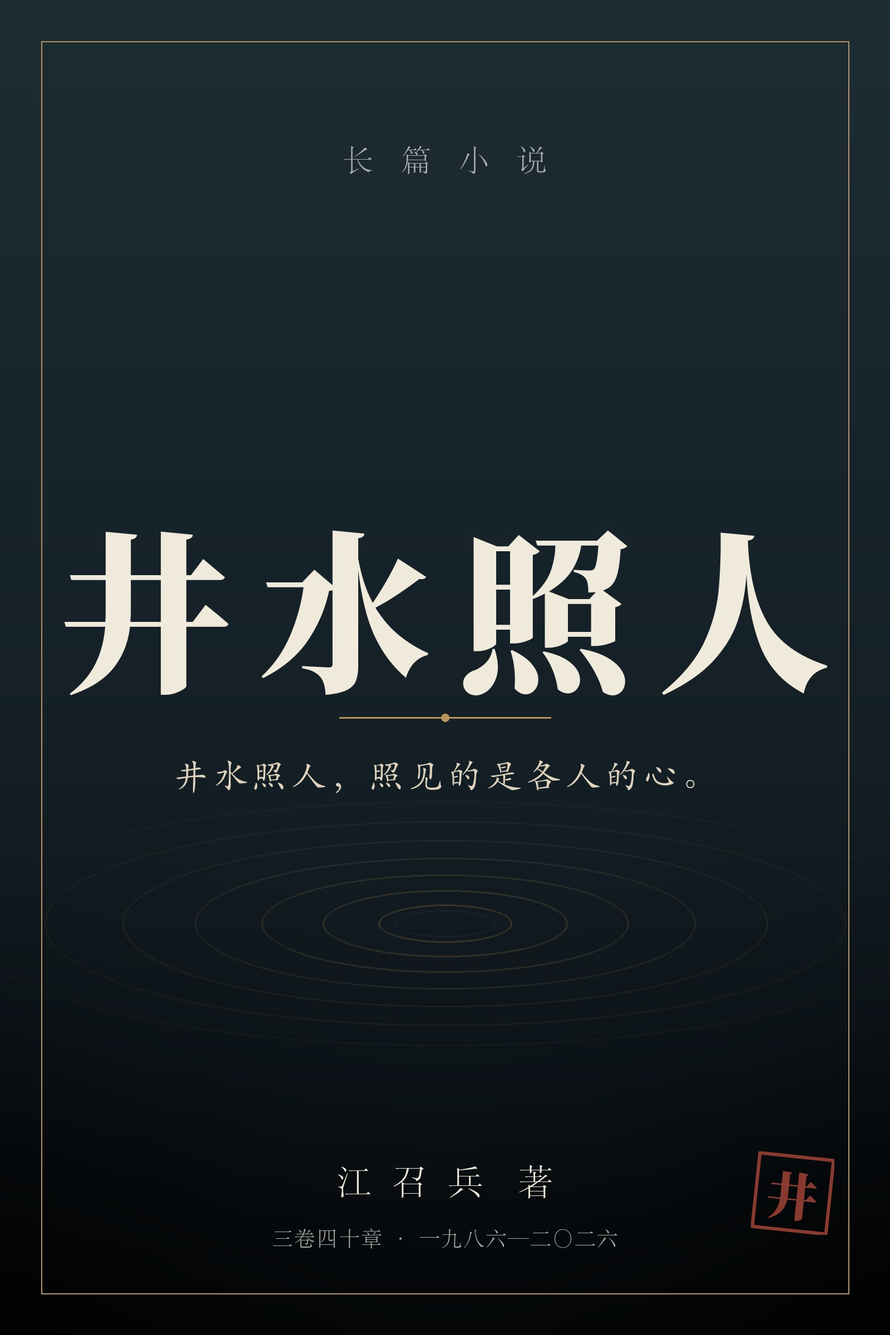
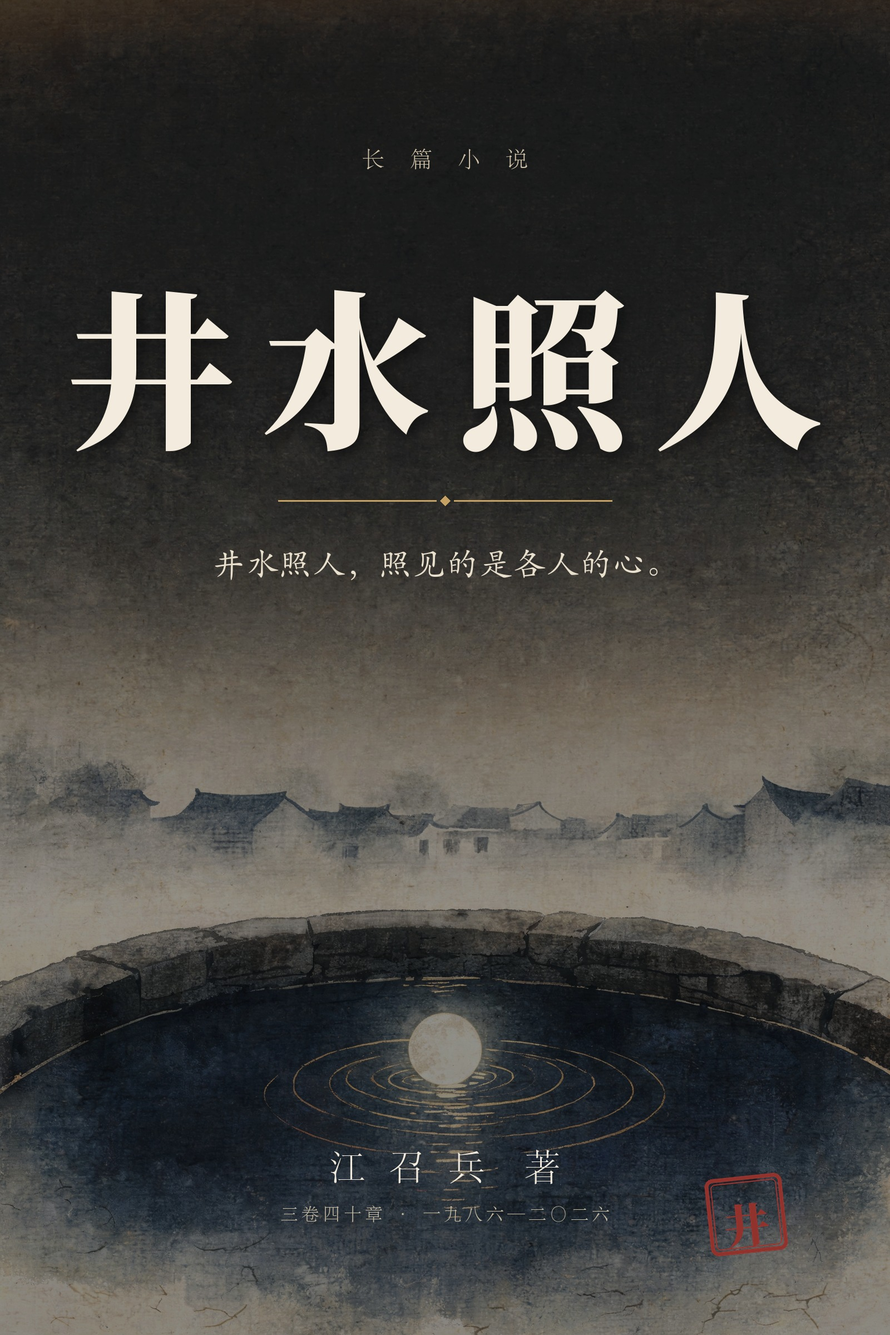
Cover: regenerate Jingshui Zhaoren cover from Dreamina art + PIL typography

diff --git a/books/jingshui-zhaoren/read.html b/books/jingshui-zhaoren/read.html
@@ -17,7 +17,7 @@
 <meta property="og:url" content="https://ZhaobingJiang.github.io/books/jingshui-zhaoren/read.html">
 <meta property="og:title" content="井水照人 · 全文在线阅读">
 <meta property="og:description" content="1986—2026，从江淮省陵水县到云州。三卷四十章，约二十五万字，全文在线阅读。">
-<meta property="og:image" content="https://ZhaobingJiang.github.io/books/jingshui-zhaoren/cover.jpg?v=1">
+<meta property="og:image" content="https://ZhaobingJiang.github.io/books/jingshui-zhaoren/cover.jpg?v=2">
 <meta name="twitter:card" content="summary_large_image">
 <script type="application/ld+json">
 {"@context":"https://schema.org","@type":"Book","name":"井水照人","alternateName":"Well Water Mirrors","url":"https://ZhaobingJiang.github.io/books/jingshui-zhaoren/","inLanguage":"zh-CN","bookFormat":"https://schema.org/EBook","author":{"@type":"Person","name":"江召兵","url":"https://ZhaobingJiang.github.io/"},"numberOfPages":40,"bookEdition":"网页版","isAccessibleForFree":true,"creativeWorkStatus":"全书完成"}
@@ -67,7 +67,7 @@
 
 <main class="reader">
   <div class="book-head">
-    <img class="web-cover" src="cover.jpg?v=1" alt="《井水照人》封面：江召兵著，长篇小说" width="1600" height="2400">
+    <img class="web-cover" src="cover.jpg?v=2" alt="《井水照人》封面：江召兵著，长篇小说" width="1600" height="2400">
     <h1 class="t">井水照人</h1>
     <div class="s">井水照人，照见的是各人的心。</div>
     <div class="a">江召兵　著</div>

diff --git a/books/jingshui-zhaoren/index.html b/books/jingshui-zhaoren/index.html
@@ -17,7 +17,7 @@
 <meta property="og:url" content="https://ZhaobingJiang.github.io/books/jingshui-zhaoren/">
 <meta property="og:title" content="井水照人 · 长篇小说">
 <meta property="og:description" content="1986—2026，从江淮省陵水县到云州。三卷四十章，约二十五万字，全书完成。">
-<meta property="og:image" content="https://ZhaobingJiang.github.io/books/jingshui-zhaoren/cover.jpg?v=1">
+<meta property="og:image" content="https://ZhaobingJiang.github.io/books/jingshui-zhaoren/cover.jpg?v=2">
 <meta name="twitter:card" content="summary_large_image">
 <script type="application/ld+json">
 {"@context":"https://schema.org","@graph":[
@@ -68,7 +68,7 @@
 
 <main class="landing">
   <section class="book-hero">
-    <img class="cover" src="cover.jpg?v=1" alt="《井水照人》封面：江召兵著，长篇小说，题记“井水照人，照见的是各人的心”" width="1600" height="2400">
+    <img class="cover" src="cover.jpg?v=2" alt="《井水照人》封面：江召兵著，长篇小说，题记“井水照人，照见的是各人的心”" width="1600" height="2400">
     <div>
       <h1>井水照人</h1>
       <p class="sub">井水照人，照见的是各人的心。</p>

diff --git a/books/index.html b/books/index.html
@@ -687,7 +687,7 @@
 
         <article class="book-card" id="book-19">
           <figure class="book-figure">
-            <img src="./jingshui-zhaoren/cover-card.jpg?v=1" alt="Cover of Well Water Mirrors (Jingshui Zhaoren)" width="640" height="960">
+            <img src="./jingshui-zhaoren/cover-card.jpg?v=2" alt="Cover of Well Water Mirrors (Jingshui Zhaoren)" width="640" height="960">
             <figcaption>Complete &middot; Prologue and three volumes, forty chapters</figcaption>
           </figure>
           <div class="book-body">

diff --git a/zh/books.html b/zh/books.html
@@ -687,7 +687,7 @@
 
         <article class="book-card" id="book-19">
           <figure class="book-figure">
-            <img src="../books/jingshui-zhaoren/cover-card.jpg?v=1" alt="《井水照人》封面" width="640" height="960">
+            <img src="../books/jingshui-zhaoren/cover-card.jpg?v=2" alt="《井水照人》封面" width="640" height="960">
             <figcaption>全书完成 · 楔子 + 三卷四十章</figcaption>
           </figure>
           <div class="book-body">

diff --git a/scripts/compose_jingshui_cover_dreamina.py b/scripts/compose_jingshui_cover_dreamina.py
@@ -1,0 +1,177 @@
+# -*- coding: utf-8 -*-
+"""Compose the cover art for 井水照人 from a Dreamina-generated background.
+
+Input: _tmp_cover_art/art2.png (3328x4992 ink-wash well and moon)
+Outputs (books/jingshui-zhaoren/):
+  cover.jpg         1600x2400
+  cover-card.jpg     640x960
+  cover_preview.png  800x1200
+"""
+from pathlib import Path
+from PIL import Image, ImageDraw, ImageFont, ImageFilter, ImageEnhance
+
+ROOT = Path(__file__).resolve().parents[1]
+ART = ROOT / "_tmp_cover_art" / "art2.png"
+OUT = ROOT / "books" / "jingshui-zhaoren"
+OUT.mkdir(parents=True, exist_ok=True)
+
+W, H = 1600, 2400
+
+FONT_TITLE = r"C:\Windows\Fonts\Source Han Serif SC Heavy (TrueType).ttf"
+FONT_SERIF = r"C:\Windows\Fonts\STSONG.TTF"
+FONT_KAI = r"C:\Windows\Fonts\STKAITI.TTF"
+
+IVORY = (243, 236, 221)
+GOLD = (196, 160, 96)
+MUTED = (198, 186, 162)
+SEAL_RED = (143, 45, 39)
+
+
+def fit(img: Image.Image, w: int, h: int) -> Image.Image:
+    iw, ih = img.size
+    scale = max(w / iw, h / ih)
+    nw, nh = int(iw * scale + 0.5), int(ih * scale + 0.5)
+    img = img.resize((nw, nh), Image.LANCZOS)
+    left = (nw - w) // 2
+    top = (nh - h) // 2
+    return img.crop((left, top, left + w, top + h))
+
+
+def vgrad(size, stops):
+    """Vertical gradient image from list of (t, rgba)."""
+    w, h = size
+    img = Image.new("RGBA", (w, h))
+    px = img.load()
+    stops = sorted(stops)
+    for y in range(h):
+        t = y / (h - 1)
+        # find segment
+        for i in range(len(stops) - 1):
+            t0, c0 = stops[i]
+            t1, c1 = stops[i + 1]
+            if t0 <= t <= t1:
+                k = 0 if t1 == t0 else (t - t0) / (t1 - t0)
+                col = tuple(int(c0[j] + (c1[j] - c0[j]) * k) for j in range(4))
+                break
+        else:
+            col = stops[-1][1]
+        for x in range(w):
+            px[x, y] = col
+    return img
+
+
+def draw_tracked(draw: ImageDraw.ImageDraw, xy, text, font, fill, tracking=0):
+    x, y = xy
+    for ch in text:
+        draw.text((x, y), ch, font=font, fill=fill)
+        x += draw.textlength(ch, font=font) + tracking
+    return x
+
+
+def tracked_width(draw, text, font, tracking):
+    return sum(draw.textlength(ch, font=font) for ch in text) + tracking * (len(text) - 1)
+
+
+def build():
+    art = Image.open(ART).convert("RGB")
+    base = fit(art, W, H).convert("RGBA")
+
+    # 1. deepen the sky at the top so ivory typography stays legible
+    shade = vgrad((W, H), [
+        (0.00, (14, 17, 20, 150)),
+        (0.28, (18, 21, 24, 108)),
+        (0.52, (20, 24, 27, 44)),
+        (0.68, (12, 15, 18, 10)),
+        (1.00, (8, 10, 12, 26)),
+    ])
+    base = Image.alpha_composite(base, shade)
+
+    # 2. soft vignette
+    vign = Image.new("L", (W, H), 0)
+    vd = ImageDraw.Draw(vign)
+    vd.ellipse((-int(W * 0.55), -int(H * 0.30), int(W * 1.55), int(H * 1.30)), fill=120)
+    vign = vign.filter(ImageFilter.GaussianBlur(180))
+    dark = Image.new("RGBA", (W, H), (6, 8, 10, 255))
+    dark.putalpha(ImageEnhance.Brightness(vign).enhance(0.9))
+    base = Image.alpha_composite(base, dark)
+
+    draw = ImageDraw.Draw(base)
+
+    # 3. top label
+    f_label = ImageFont.truetype(FONT_SERIF, 40)
+    lab = "长 篇 小 说"
+    lw = tracked_width(draw, lab, f_label, 18)
+    draw_tracked(draw, ((W - lw) / 2, 258), lab, f_label, (208, 194, 168), 18)
+
+    # 4. main title
+    f_title = ImageFont.truetype(FONT_TITLE, 306)
+    title = "井水照人"
+    tw = tracked_width(draw, title, f_title, 46)
+    tx = (W - tw) / 2
+    ty = 430
+    # soft shadow first
+    shadow = Image.new("RGBA", (W, H), (0, 0, 0, 0))
+    sd = ImageDraw.Draw(shadow)
+    draw_tracked(sd, (tx + 6, ty + 10), title, f_title, (0, 0, 0, 170), 46)
+    shadow = shadow.filter(ImageFilter.GaussianBlur(14))
+    base = Image.alpha_composite(base, shadow)
+    draw = ImageDraw.Draw(base)
+    draw_tracked(draw, (tx, ty), title, f_title, IVORY, 46)
+
+    # 5. gold rule with a small diamond
+    ry = 900
+    half = 300
+    draw.line([(W / 2 - half, ry), (W / 2 - 16, ry)], fill=GOLD, width=3)
+    draw.line([(W / 2 + 16, ry), (W / 2 + half, ry)], fill=GOLD, width=3)
+    d = 9
+    draw.polygon([(W / 2, ry - d), (W / 2 + d, ry), (W / 2, ry + d), (W / 2 - d, ry)], fill=GOLD)
+
+    # 6. tagline
+    f_tag = ImageFont.truetype(FONT_KAI, 60)
+    tag = "井水照人，照见的是各人的心。"
+    tagw = draw.textlength(tag, font=f_tag)
+    draw.text(((W - tagw) / 2, 972), tag, font=f_tag, fill=(232, 222, 204))
+
+    # 7. author and book line
+    f_author = ImageFont.truetype(FONT_SERIF, 66)
+    author = "江 召 兵  著"
+    aw = tracked_width(draw, author, f_author, 12)
+    ay = 2052
+    draw_tracked(draw, ((W - aw) / 2, ay), author, f_author, IVORY, 12)
+
+    f_line = ImageFont.truetype(FONT_SERIF, 32)
+    line = "三卷四十章 · 一九八六—二〇二六"
+    lw2 = tracked_width(draw, line, f_line, 6)
+    draw_tracked(draw, ((W - lw2) / 2, 2160), line, f_line, MUTED, 6)
+
+    # 8. red seal, slightly rotated, right of the author line
+    seal = Image.new("RGBA", (150, 150), (0, 0, 0, 0))
+    sdd = ImageDraw.Draw(seal)
+    sdd.rounded_rectangle((6, 6, 144, 144), radius=14, outline=SEAL_RED, width=7)
+    sdd.rounded_rectangle((16, 16, 134, 134), radius=8, outline=SEAL_RED, width=2)
+    f_seal = ImageFont.truetype(FONT_TITLE, 82)
+    cw = sdd.textlength("井", font=f_seal)
+    sdd.text(((150 - cw) / 2, 30), "井", font=f_seal, fill=SEAL_RED)
+    seal = seal.rotate(6, expand=True, resample=Image.BICUBIC)
+    base.alpha_composite(seal, (1258, 2100))
+
+    # 9. subtle paper grain
+    grain = Image.effect_noise((W, H), 8).convert("L").resize((W, H))
+    grain = ImageEnhance.Contrast(grain).enhance(0.6)
+    noise = Image.new("RGBA", (W, H), (255, 255, 255, 0))
+    noise.putalpha(grain.point(lambda v: int(v * 0.05)))
+    base = Image.alpha_composite(base, noise)
+
+    rgb = base.convert("RGB")
+    rgb.save(OUT / "cover.jpg", "JPEG", quality=92, optimize=True)
+    card = rgb.resize((640, 960), Image.LANCZOS)
+    card.save(OUT / "cover-card.jpg", "JPEG", quality=90, optimize=True)
+    prev = rgb.resize((800, 1200), Image.LANCZOS)
+    prev.save(OUT / "cover_preview.png", "PNG", optimize=True)
+    for p in ("cover.jpg", "cover-card.jpg", "cover_preview.png"):
+        f = OUT / p
+        print(p, f.stat().st_size)
+
+
+if __name__ == "__main__":
+    build()

diff --git a/scripts/build_jingshui_read.py b/scripts/build_jingshui_read.py
@@ -119,7 +119,7 @@ html_doc = f"""<!DOCTYPE html>
 <meta property="og:url" content="https://ZhaobingJiang.github.io/books/{SLUG}/read.html">
 <meta property="og:title" content="{TITLE} · 全文在线阅读">
 <meta property="og:description" content="1986—2026，从江淮省陵水县到云州。三卷四十章，{WORDS}，全文在线阅读。">
-<meta property="og:image" content="https://ZhaobingJiang.github.io/books/{SLUG}/cover.jpg?v=1">
+<meta property="og:image" content="https://ZhaobingJiang.github.io/books/{SLUG}/cover.jpg?v=2">
 <meta name="twitter:card" content="summary_large_image">
 <script type="application/ld+json">
 {{"@context":"https://schema.org","@type":"Book","name":"{TITLE}","alternateName":"Well Water Mirrors","url":"https://ZhaobingJiang.github.io/books/{SLUG}/","inLanguage":"zh-CN","bookFormat":"https://schema.org/EBook","author":{{"@type":"Person","name":"江召兵","url":"https://ZhaobingJiang.github.io/"}},"numberOfPages":40,"bookEdition":"网页版","isAccessibleForFree":true,"creativeWorkStatus":"全书完成"}}
@@ -169,7 +169,7 @@ html_doc = f"""<!DOCTYPE html>
 
 <main class="reader">
   <div class="book-head">
-    <img class="web-cover" src="cover.jpg?v=1" alt="《{TITLE}》封面：江召兵著，长篇小说" width="1600" height="2400">
+    <img class="web-cover" src="cover.jpg?v=2" alt="《{TITLE}》封面：江召兵著，长篇小说" width="1600" height="2400">
     <h1 class="t">井水照人</h1>
     <div class="s">{SUBTITLE}</div>
     <div class="a">江召兵　著</div>

diff --git a/scripts/add_jingshui_to_site.py b/scripts/add_jingshui_to_site.py
@@ -6,7 +6,7 @@ ROOT = Path(r"D:\deepseek-harness\OpatiyaAgent\JiangZhaobing.github.io")
 
 ZH_CARD = '''        <article class="book-card" id="book-19">
           <figure class="book-figure">
-            <img src="../books/jingshui-zhaoren/cover-card.jpg?v=1" alt="《井水照人》封面" width="640" height="960">
+            <img src="../books/jingshui-zhaoren/cover-card.jpg?v=2" alt="《井水照人》封面" width="640" height="960">
             <figcaption>全书完成 · 楔子 + 三卷四十章</figcaption>
           </figure>
           <div class="book-body">
@@ -32,7 +32,7 @@ ZH_CARD = '''        <article class="book-card" id="book-19">
 
 EN_CARD = '''        <article class="book-card" id="book-19">
           <figure class="book-figure">
-            <img src="./jingshui-zhaoren/cover-card.jpg?v=1" alt="Cover of Well Water Mirrors (Jingshui Zhaoren)" width="640" height="960">
+            <img src="./jingshui-zhaoren/cover-card.jpg?v=2" alt="Cover of Well Water Mirrors (Jingshui Zhaoren)" width="640" height="960">
             <figcaption>Complete &middot; Prologue and three volumes, forty chapters</figcaption>
           </figure>
           <div class="book-body">
